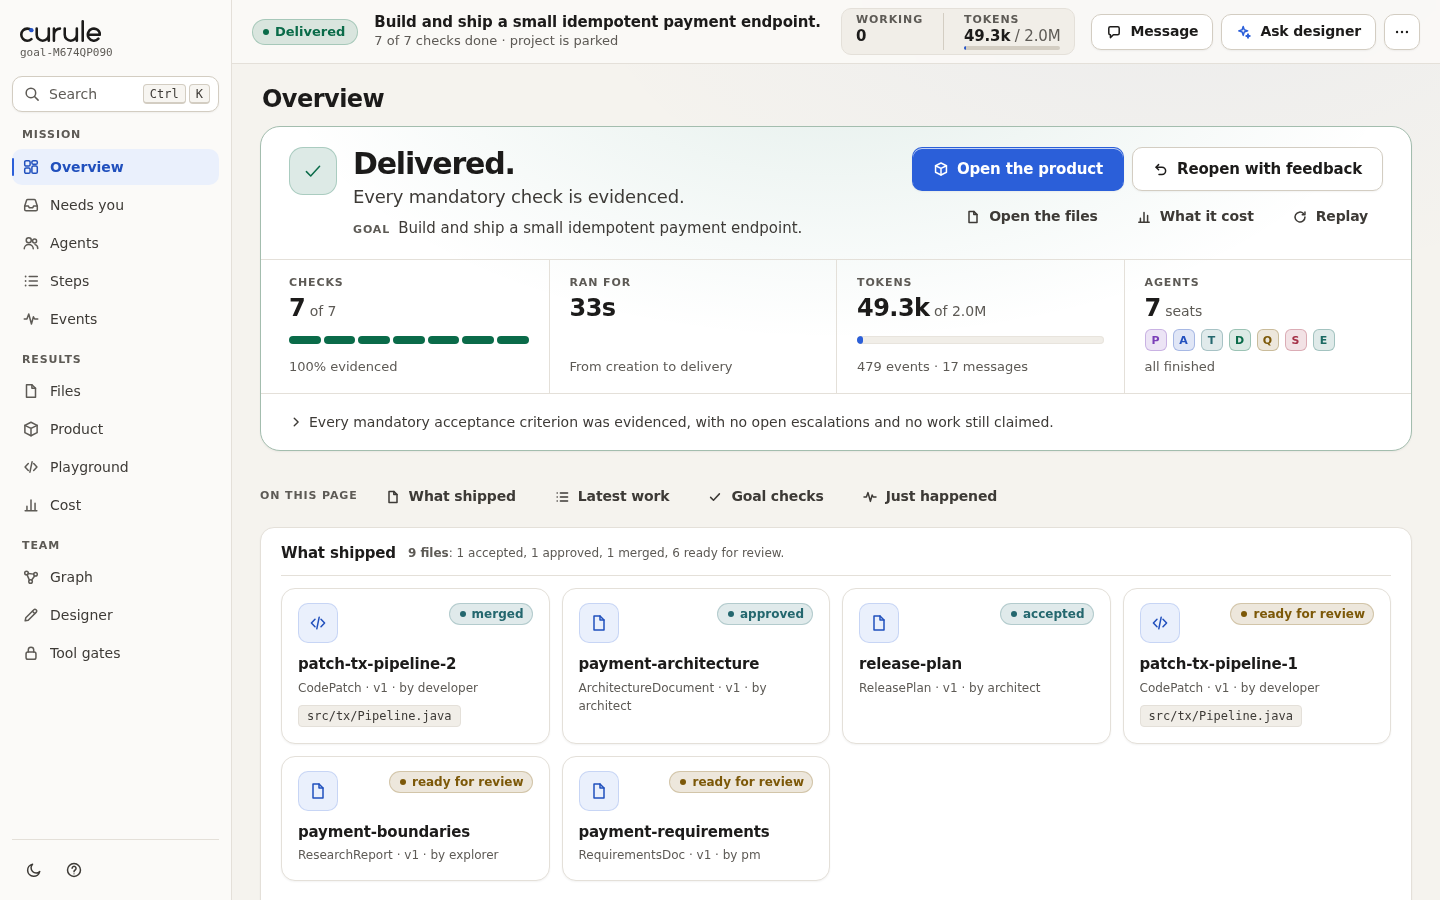
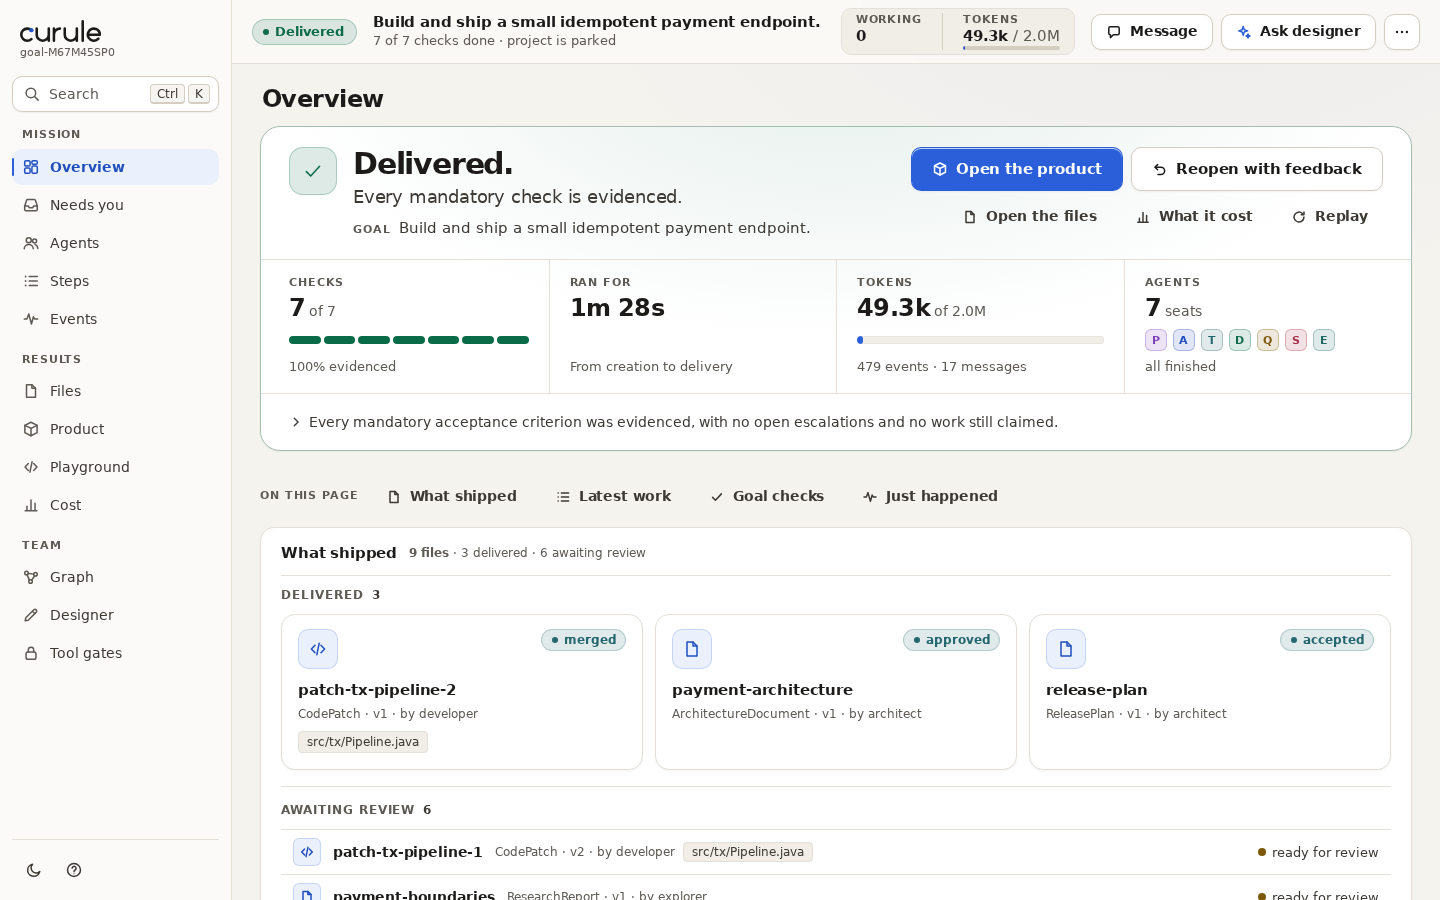
chore(ux): a thirteenth set of three passes of 31 Oct, with their before and after
The marketing site: the console stands beside the statement, and the record is set in a serif (e04186c).
The account pages: the account opens as one statement, and a phone's main action is the page's width (d1dec3a).
The console: the Overview's result is a delivery receipt, with every file on the page (2784014).
The panel shows where the three surfaces stand now.

diff --git a/site/ux/index.html b/site/ux/index.html
@@ -53,7 +53,52 @@
   <h2>Where they stand now</h2>
   <div class="pair three"><a class="shot" href="shots/landing-now.png"><img src="shots/landing-now.png" alt="the landing page" loading="lazy"><span>the landing page</span></a><a class="shot" href="shots/account-now.png"><img src="shots/account-now.png" alt="the account pages" loading="lazy"><span>the account pages</span></a><a class="shot" href="shots/console-now.png"><img src="shots/console-now.png" alt="the console" loading="lazy"><span>the console</span></a></div>
 </section>
-<p class="stat"><span><b>84</b> passes</span><span><b>83</b> merged</span><span><b>4</b> surfaces</span><span>updated 30 Oct 2026 23:02</span></p>
+<p class="stat"><span><b>87</b> passes</span><span><b>86</b> merged</span><span><b>4</b> surfaces</span><span>updated 31 Oct 2026 04:12</span></p>
+<article class="pass">
+  <header>
+    <h2>the marketing site</h2>
+    <p class="when">31 Oct 2026 &middot; 04:10</p>
+  </header>
+  <div class="pair"><a class="shot" href="shots/20261031-0410-before.png"><img src="shots/20261031-0410-before.png" alt="A 360 × 800 phone in light, at the top of the home page: the header with Get started and the menu; the pill &quot;AI agents that keep working, with a record of everything they did&quot;; the statement &quot;A team of AI agents, run like an organization.&quot; in the sans face over four lines from 153 to 316; the lede; Get started and Try the demo at 499; the price line at 563; and the product frame's tabs from 684, its title bar at 743 and the first 11px of its picture at 789." loading="lazy"><span>before this pass</span></a><a class="shot" href="shots/20261031-0410-after.png"><img src="shots/20261031-0410-after.png" alt="The same frame after the pass: the statement is set in the serif over three lines from 153 to 280 (was four to 316), the two actions are at 462 (was 499) and the price line at 526 (was 563); the product frame's tabs begin at 648 and its picture at 752, where &quot;Delivered&quot; and &quot;Build and ship a small iden…&quot; are legible at 1:1 — 326 × 260, where the whole 1,440px console had been shrunk into 326 × 204." loading="lazy"><span>after</span></a></div>
+  <ul class="did">
+<li><b>The console stands beside the statement, and at its own size.</b> At 1,040px and wider the first screen is a 7/5 spread: the hero falls <b>1,660.67 → 918.47px</b>, the plate moves from <b>y = 682.34 to y = 177</b>, and its capture goes from <b>1,118 × 698.75 at 0.78 scale to 450.67 × 420 at 1:1</b>, so the console's own 13px text is 13px instead of about 10. The price section follows one screen lower (<b>1,827.67 → 1,085.47</b>) and the page is <b>12,259 → 11,435px</b>.</li>
+<li><b>On a phone the statement is shorter and the product is readable at the fold.</b> At 360 the <code>h1</code> is <b>163.19px over four lines → 126px over three</b>, the actions are <b>499.55 → 462.36</b> and the price line <b>563.55 → 526.36</b>; the plate's capture is <b>326 × 203.75 at 0.23 → 326 × 260 at 1:1</b>, so an 800px screen holds <b>10px → 48px</b> of it and its words are 13px instead of about 3. The page is <b>13,255 → 13,140px</b>.</li>
+<li><b>The record is set in a serif; the ramp is untouched.</b> 42 of the seven pages' 63 <code>h1</code>/<code>h2</code> take the display face (the other 21 are the footer's three group names on each page), at the same sizes — home <code>h1</code> <b>40 / 60.7 / 76px</b> at 360 / 768 / 1,440, <code>h2</code> <b>28 / 36.8 / 48</b>. The narrower face saves lines on a phone: pricing <b>13,721 → 13,612</b>, docs <b>8,443 → 8,382</b>, contact <b>4,473 → 4,381</b>, security <b>11,625 → 11,600</b>, legal <b>5,059 → 5,037</b> and the 404 <b>2,123 → 2,089</b> at 360. No webfont is added: the stack is system faces, so the site still makes no request.</li>
+<li><b>Nothing moves when the plate switches, and print is whole.</b> The frame is <b>553.5px at 1,440, 554 at 768 and 413 at 360</b> for Overview, Events and Designer (the page height is identical), and the caption keeps one height across the three. At 794px print every page is <b>0px</b> over and the whole capture is printed, not the crop.</li>
+<li><b>Not worse, measured.</b> <b>0px</b> of horizontal overflow on all <b>70</b> page / width / theme pairs (7 pages × 320 / 360 / 390 / 768 / 1,440 × light and dark); smallest computed text <b>12px</b>; the worst text pair is <b>5.61:1 light / 6.57:1 dark</b>, unchanged; <b>0</b> axe-core WCAG 2.0–2.2 A/AA violations on the seven pages at 360 and 1,440 in both schemes; at a 24px and a 32px root every page is <b>0px</b> over at 320 / 360 / 720.</li>
+</ul>
+  <p class="meta">9 files changed &middot; <code>e04186c</code> &middot; suite green, merged</p>
+</article>
+<article class="pass">
+  <header>
+    <h2>the account pages</h2>
+    <p class="when">31 Oct 2026 &middot; 04:11</p>
+  </header>
+  <div class="pair"><a class="shot" href="shots/20261031-0411-before.png"><img src="shots/20261031-0411-before.png" alt="A 360 × 800 phone in light, the account of a Team plan: the header, &quot;Your account&quot;, &quot;Signed in as …&quot;, then a rounded card with a pale gradient holding &quot;Research is running&quot; and a 97 × 48 Open button, three ruled facts (Workspaces 1 running, Plan Team, Balance $10.00), a pill row of five sections, and 01 Workspaces with Research and Open / Pause / More." loading="lazy"><span>before this pass</span></a><a class="shot" href="shots/20261031-0411-after.png"><img src="shots/20261031-0411-after.png" alt="The same frame: the card's chrome is gone — &quot;Research is running&quot; and its sentence stand on the page's paper under the masthead's rule, and Open is 328 × 48 across the page; the three facts follow under one rule; the sections are a numbered strip (01–05) whose names are 44px targets; 01 Workspaces and Research are 17px higher, and Open / Pause / More with them." loading="lazy"><span>after</span></a></div>
+  <ul class="did">
+<li><b>The head is one statement, and the page is shorter.</b> The state was the page's only gradient card and the only surface in the head; it is now a band on the page's paper under the masthead's rule. At 1,440 the band is <b>132.6 → 118.6px</b> and the page <b>2,479 → 2,429px</b>, with <b>01 Workspaces</b> at <b>518.5 → 468.5</b>; at 360 the page is <b>2,547 → 2,530</b> and the workspace's heading <b>645.2 → 628.4</b>; at 320 <b>2,718 → 2,698</b> and at 768 <b>2,443 → 2,411</b>.</li>
+<li><b>On a phone the one action is the width of the page.</b> <code>Open</code> was <b>97 × 48</b> and is <b>328 × 48</b> at 360 (<b>288</b> at 320, <b>358</b> at 390); the past-due band's ragged <b>267 + 97</b> is <b>328 + 328</b> on their own rows; a form in the state takes the row's full width. At 768 and 1,440 the button keeps its 97px, where a pointer has the room.</li>
+<li><b>A warning is now visibly a warning.</b> <code>stage-warn</code> and <code>stage-bad</code> were plain white cards; they draw the 8% tint the shared rule always set and a 3px rule in the tone — "your last payment did not go through" is an amber band, not a sentence in a box.</li>
+<li><b>The position takes the record's figure size, and the contents is a finger's target.</b> The three facts' amounts go <b>26 → 30px</b> (the block <b>173.3 → 186.6px</b> at 360, <b>101 → 109</b> at 1,440) while the first screen still ends on the workspace's <b>Open / Pause / More</b> (<b>722.7–766.7 → 705.9–749.9</b> at 360, inside 800). The five contents links were <b>32px</b> and are <b>44px</b> (pointer targets under 44 × 44 at 768 and 1,440: <b>25 → 20</b>); the strip is <b>49 → 44px</b> at 1,440 and <b>45 → 44</b> at 360. The numbers are 12px mono at 721px and wider; a phone keeps the names only, because a number each would wrap the strip to two rows.</li>
+<li><b>Not worse, measured.</b> No page scrolls sideways at 320 / 360 / 390 / 768 / 1,440 in light or dark (all <b>0px</b> over), at 200% text <b>0px</b> over at 320 / 360 / 1,440, nothing computes below <b>12px</b> and no control is under 44 × 44 below 721. The accent is <b>6.83:1</b> on paper in light and <b>9.56:1</b> in dark. <code>app.css</code> is <b>40,940 → 40,952 bytes of 40,960</b>.</li>
+</ul>
+  <p class="meta">2 files changed &middot; <code>d1dec3a</code> &middot; suite green, merged</p>
+</article>
+<article class="pass">
+  <header>
+    <h2>the console</h2>
+    <p class="when">31 Oct 2026 &middot; 04:12</p>
+  </header>
+  <div class="pair"><a class="shot" href="shots/20261031-0412-before.png"><img src="shots/20261031-0412-before.png" alt="A 360 × 800 phone in light, the console's Overview scrolled to y = 760 with What shipped open: the head &quot;What shipped&quot;, the line &quot;9 files: 1 accepted, 1 approved, 1 merged, 6 ready for review.&quot; and a Hide button on a row of its own; six equal cards, each a type tile, a status pill, a name, &quot;CodePatch · v1 · by developer&quot; and a path; &quot;ArchitectureDocum / ent&quot; breaks mid-word." loading="lazy"><span>before this pass</span></a><a class="shot" href="shots/20261031-0412-after.png"><img src="shots/20261031-0412-after.png" alt="The same frame: the head is &quot;What shipped&quot; with Hide beside it and &quot;9 files · 3 delivered · 6 awaiting review&quot; under it; DELIVERED 3 holds three cards (patch-tx-pipeline-2, payment-architecture, release-plan) and AWAITING REVIEW 6 holds ruled rows, each a name, &quot;CodePatch · v2 · by developer&quot;, its path and a dot with &quot;ready for review&quot;; nine files are on the page and no name breaks." loading="lazy"><span>after</span></a></div>
+  <ul class="did">
+<li><b>Every file is on the page.</b> The panel drew <b>6 of 9</b> files and put the other three behind "and 3 more. Open the files"; it draws <b>9 of 9</b> — three delivered cards and six rows at 1,440, nine rows at 360 — and the "and 3 more" line is gone.</li>
+<li><b>The result has a rank, not one wall of equal cards.</b> One flat grid of six equal <b>269px</b> cards (a merged patch beside a research report still "ready for review") is two captioned groups: <b>DELIVERED 3</b> as cards (<b>362px</b>, three to the row) and <b>AWAITING REVIEW 6</b> as <b>44px</b> rows. The panel's line is <b>"9 files: 1 accepted, 1 approved, 1 merged, 6 ready for review." → "9 files · 3 delivered · 6 awaiting review"</b>.</li>
+<li><b>A phone reads the receipt as one ledger, and the head costs one row less.</b> The six cards (<b>122–140px</b> each, "ArchitectureDocum / ent" broken mid-word) are nine rows of name, type · version · owner, path and state. The panel is <b>897 → 931px</b> while carrying three more files, because the section head is <b>123 → 80px</b>; the closed row a phone sees first says <b>"9 files" → "3 of 9 delivered"</b>.</li>
+<li><b>The cost is stated.</b> At 1,440 the page is <b>1,750 → 1,934px</b> (+10.5%) and the panel <b>438 → 621</b>: that is the three files that were not on the page. At 360 the page is <b>1,923 → 1,957</b> (+34) for the same three. Tab stops are <b>38 → 40</b> at 1,440 and <b>17 → 19</b> at 360; the extra stops are those three files, and no control was removed or reordered.</li>
+<li><b>Not worse, measured.</b> <b>0px</b> of horizontal scroll at 320 / 360 / 390 / 768 / 900 / 1,440; the smallest text is <b>11px on a desk and 12px on a phone</b>, unchanged; <b>0</b> controls under 44 × 44 at 320 / 360 / 390 / 768 with a coarse pointer; the receipt's text pairs are <b>6.86–17.2 : 1</b>; axe-core finds <b>0</b> violations in six viewport / theme readings, and the rows are real buttons in visual order.</li>
+</ul>
+  <p class="meta">3 files changed &middot; <code>2784014</code> &middot; suite green, merged</p>
+</article>
 <article class="pass">
   <header>
     <h2>the marketing site</h2>
